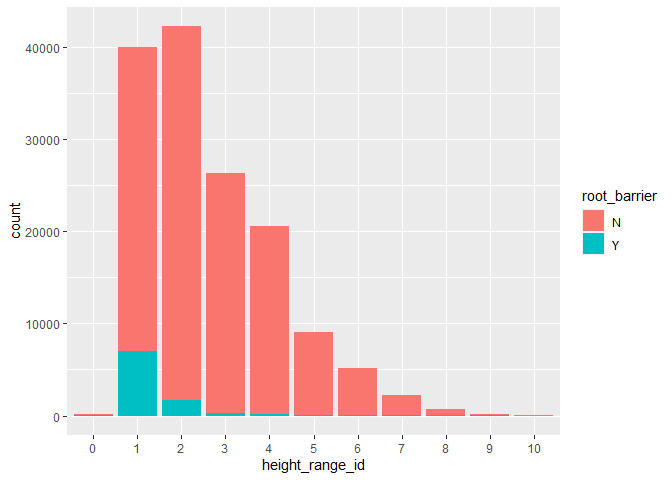
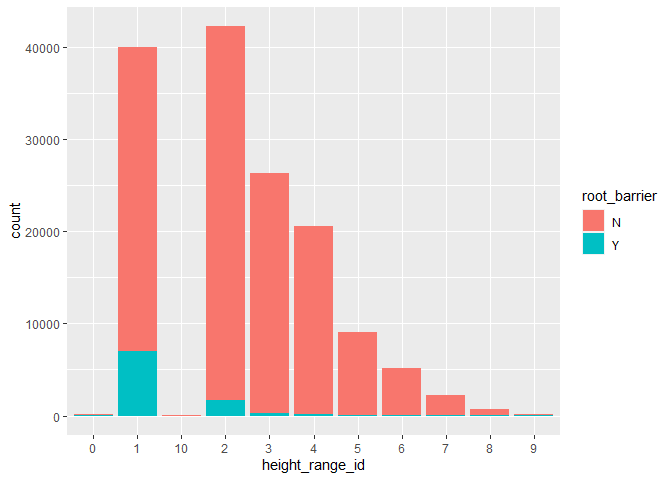
Update README.md & Rmd & md

diff --git a/Milestone2/mini-project-2.md b/Milestone2/mini-project-2.md
@@ -311,16 +311,35 @@ dropping irrelevant columns, etc.).
 > Is root barrier affecting the diameter of trees? Is there any
 > relationship between root_barrier, and tree genus/species?
 
-First, I try to know the number of root_barrier-installed trees for each
-genus, therefore, I only keep `genus_name`, `root_barrier`, `diameter`
-columns and drop the others.
+First, I only keep `genus_name`, `root_barrier`, `diameter` columns and
+drop the others.
 
 ``` r
 genus_root_barrier_diameter_vancouver_trees <- vancouver_trees %>%
   select(genus_name, root_barrier, diameter)
-  
 
+genus_root_barrier_diameter_vancouver_trees
+```
 
+    ## # A tibble: 146,611 × 3
+    ##    genus_name root_barrier diameter
+    ##    <chr>      <chr>           <dbl>
+    ##  1 ULMUS      N                10  
+    ##  2 ZELKOVA    N                10  
+    ##  3 STYRAX     N                 4  
+    ##  4 FRAXINUS   N                18  
+    ##  5 ACER       N                 9  
+    ##  6 PYRUS      N                 5  
+    ##  7 ACER       N                15  
+    ##  8 ACER       N                14  
+    ##  9 ACER       N                16  
+    ## 10 FRAXINUS   N                 7.5
+    ## # … with 146,601 more rows
+
+Then filter all `root_barrier == 'Y'` samples to calculate the number of
+root_barrier-installed trees for each genus.
+
+``` r
 number_of_root_barrier <- genus_root_barrier_diameter_vancouver_trees %>%
   filter(root_barrier == 'Y') %>%
   group_by(genus_name) %>%
@@ -346,8 +365,9 @@ number_of_root_barrier
     ## 10 SYRINGA      253
     ## # … with 35 more rows
 
-Next, I try to compare the diameter of root_barrier-installed trees with
-the uninstalled ones for each genus.
+Next, `pivot_wider` is used to tidy data and compare the mean diameter
+of root_barrier-installed trees with the uninstalled ones for each
+genus.
 
 ``` r
 mean_diameter_root_barrier <- genus_root_barrier_diameter_vancouver_trees %>%
@@ -396,8 +416,9 @@ mean_diameter_root_barrier %>%
     ## 5 PICEA         11.0  16.3 
     ## 6 THUJA         17.5  38
 
-There are 6 genus with a longer mean diameter for root_barrier-installed
-trees. I want to know the potential reason.
+We can see that there are 6 genus with a longer mean diameter for
+root_barrier-installed trees. I try to find the potential reason by
+looking into `number_of_root_barrier` data.
 
 ``` r
 number_of_root_barrier %>%
@@ -416,8 +437,8 @@ number_of_root_barrier %>%
     ## 6 THUJA             1
 
 Genus “METASEQUOIA”, “PICEA”, “CHAMAECYPARIS”, “THUJA” have a longer
-mean diameter because there are few observations for them. However,
-“PARROTIA” and “CERCIS” maybe special cases.
+mean diameter because there are few observations for them, while
+“PARROTIA” and “CERCIS” should be special cases.
 
 **Research question 2:**
 
@@ -546,7 +567,7 @@ vancouver_trees %>%
     geom_bar()
 ```
 
-![](mini-project-2_files/figure-gfm/unnamed-chunk-14-1.png)<!-- -->
+![](mini-project-2_files/figure-gfm/unnamed-chunk-15-1.png)<!-- -->
 
 <!----------------------------------------------------------------------------->
 
@@ -593,8 +614,9 @@ Now, choose two of the following tasks.
 
 **Task Number**: Task 1
 
-I would like to reorder the `height_range_id` in numeric order to make
-it looks more clear.
+From the above plot, we can see that the columns was ordered in
+character order. I would like to reorder the `height_range_id` in
+numeric order to make it looks more clear.
 
 ``` r
 vancouver_trees %>%
@@ -603,14 +625,14 @@ vancouver_trees %>%
     geom_bar()
 ```
 
-![](mini-project-2_files/figure-gfm/unnamed-chunk-15-1.png)<!-- -->
+![](mini-project-2_files/figure-gfm/unnamed-chunk-16-1.png)<!-- -->
 
 <!----------------------------------------------------------------------------->
 <!-------------------------- Start your work below ---------------------------->
 
 **Task Number**: Task 2
 
-I would like to group some height_range_id levels together into an
+I would like to group some `height_range_id` levels together into an
 “other” category because there are few samples in
 `height_range_id = 0, 9, 10`. These samples maybe special cases or
 errors, which will not be considered in my future research.
@@ -623,7 +645,7 @@ vancouver_trees %>%
     geom_bar()
 ```
 
-![](mini-project-2_files/figure-gfm/unnamed-chunk-16-1.png)<!-- -->
+![](mini-project-2_files/figure-gfm/unnamed-chunk-17-1.png)<!-- -->
 
 <!----------------------------------------------------------------------------->
 
@@ -694,7 +716,7 @@ PRUNUS_vancouver_trees
 ``` r
 M <- lm(diameter ~ date_planted, PRUNUS_vancouver_trees)
 
-print(M)
+M
 ```
 
     ## 
@@ -735,6 +757,17 @@ broom::tidy(M)
     ## 1 (Intercept)  15.0      1.02           14.7 6.00e-44
     ## 2 date_planted -0.000734 0.0000731     -10.0 1.45e-22
 
+``` r
+broom::glance(M)
+```
+
+    ## # A tibble: 1 × 12
+    ##   r.squared adj.r.squa…¹ sigma stati…²  p.value    df logLik   AIC   BIC devia…³
+    ##       <dbl>        <dbl> <dbl>   <dbl>    <dbl> <dbl>  <dbl> <dbl> <dbl>   <dbl>
+    ## 1     0.103        0.102  2.66    101. 1.45e-22     1 -2115. 4235. 4249.   6242.
+    ## # … with 2 more variables: df.residual <int>, nobs <int>, and abbreviated
+    ## #   variable names ¹adj.r.squared, ²statistic, ³deviance
+
 <!----------------------------------------------------------------------------->
 
 # Task 4: Reading and writing data
@@ -758,8 +791,8 @@ function.
 
 <!-------------------------- Start your work below ---------------------------->
 
-I would like to choose the table below, which was made in Milestone 1 to
-write it as a csv file in my `output` folder.
+I would like to choose the table below, which was made in Milestone 1,
+to finish this task.
 
 ``` r
 count_genus_vancouver_trees <- vancouver_trees %>%
@@ -807,14 +840,17 @@ Use the functions `saveRDS()` and `readRDS()`.
 
 <!-------------------------- Start your work below ---------------------------->
 
-Write the model as `model.rds` file in my `output` folder. Then load the
-saved file into new variable `read_Model`.
+Write the model as `model.rds` file in my `output` folder.
 
 ``` r
 dir.create(here::here("output"))
 
 saveRDS(M, here("output", "model.rds"))
+```
 
+Load the saved file into new variable `read_Model`.
+
+``` r
 read_Model <- readRDS(here("output", "model.rds"))
 
 read_Model

diff --git a/README.md b/README.md
@@ -5,4 +5,4 @@ This project is related to *UBC STAT 545A course*.
 
 There are two parts for the project, including **Milestone 1** and **Milestone 2**.
 
-In this project, I mainly focused on applying R language tools learned in STAT 545A course to explore the `vancouver_trees` dataset. You can find description about `vancouver_trees` dataset on [this website](https://rdrr.io/github/UBC-MDS/datateachr/man/vancouver_trees.html)
+In this project, various R language tools learned in STAT 545A course are applied to explore the `vancouver_trees` dataset. You can find description about `vancouver_trees` dataset on [this website].(https://rdrr.io/github/UBC-MDS/datateachr/man/vancouver_trees.html)
